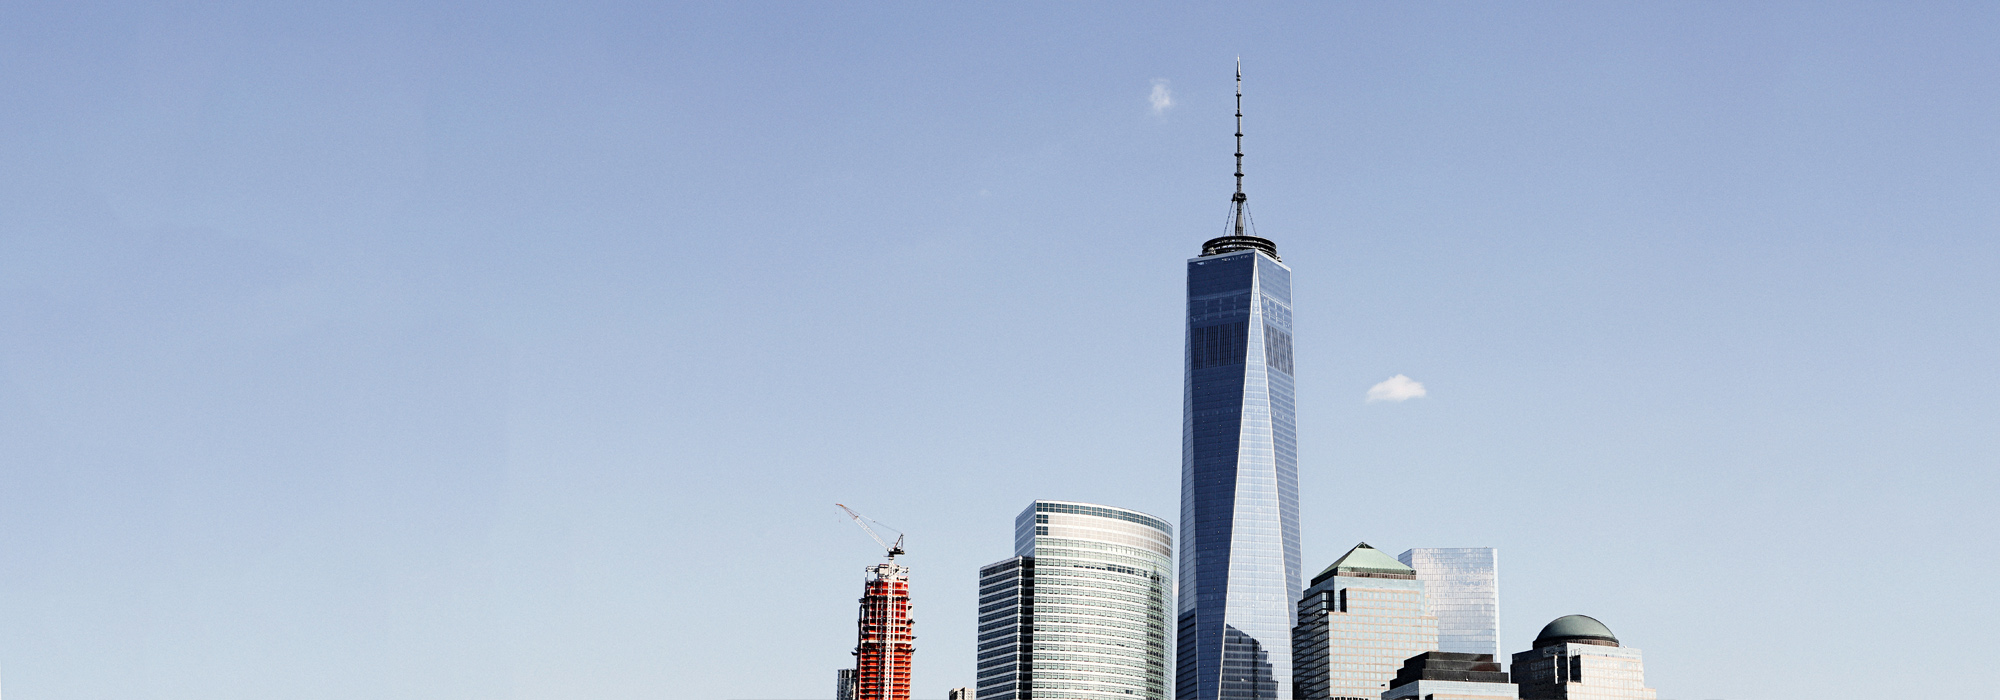
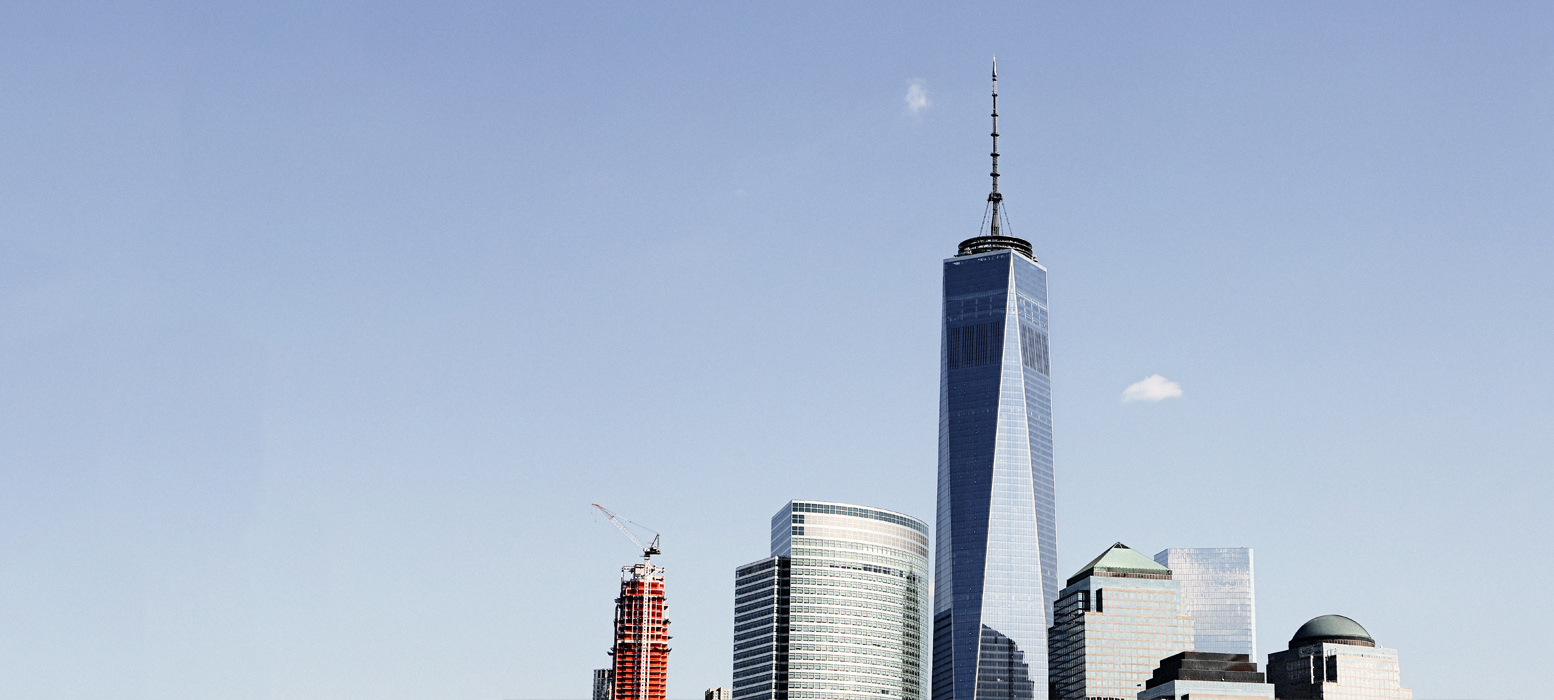
feature edited

Changed region(s): [[0.3707, 0.09, 0.9266, 1.0]]

diff --git a/less/widgets/feature.less b/less/widgets/feature.less
@@ -71,23 +71,6 @@
 
 
 
-// Overlay
-// ------------------------------
-
-
-.feature__background-image:after {
-    content: "";
-    display: block;
-    background-color: rgba(0,0,0,0.3);
-    position: absolute;
-    top: 0;
-    left: 0;
-    width: 100%;
-    bottom: 0;
-}
-
-
-
 
 // Content Wrap
 // ------------------------------
